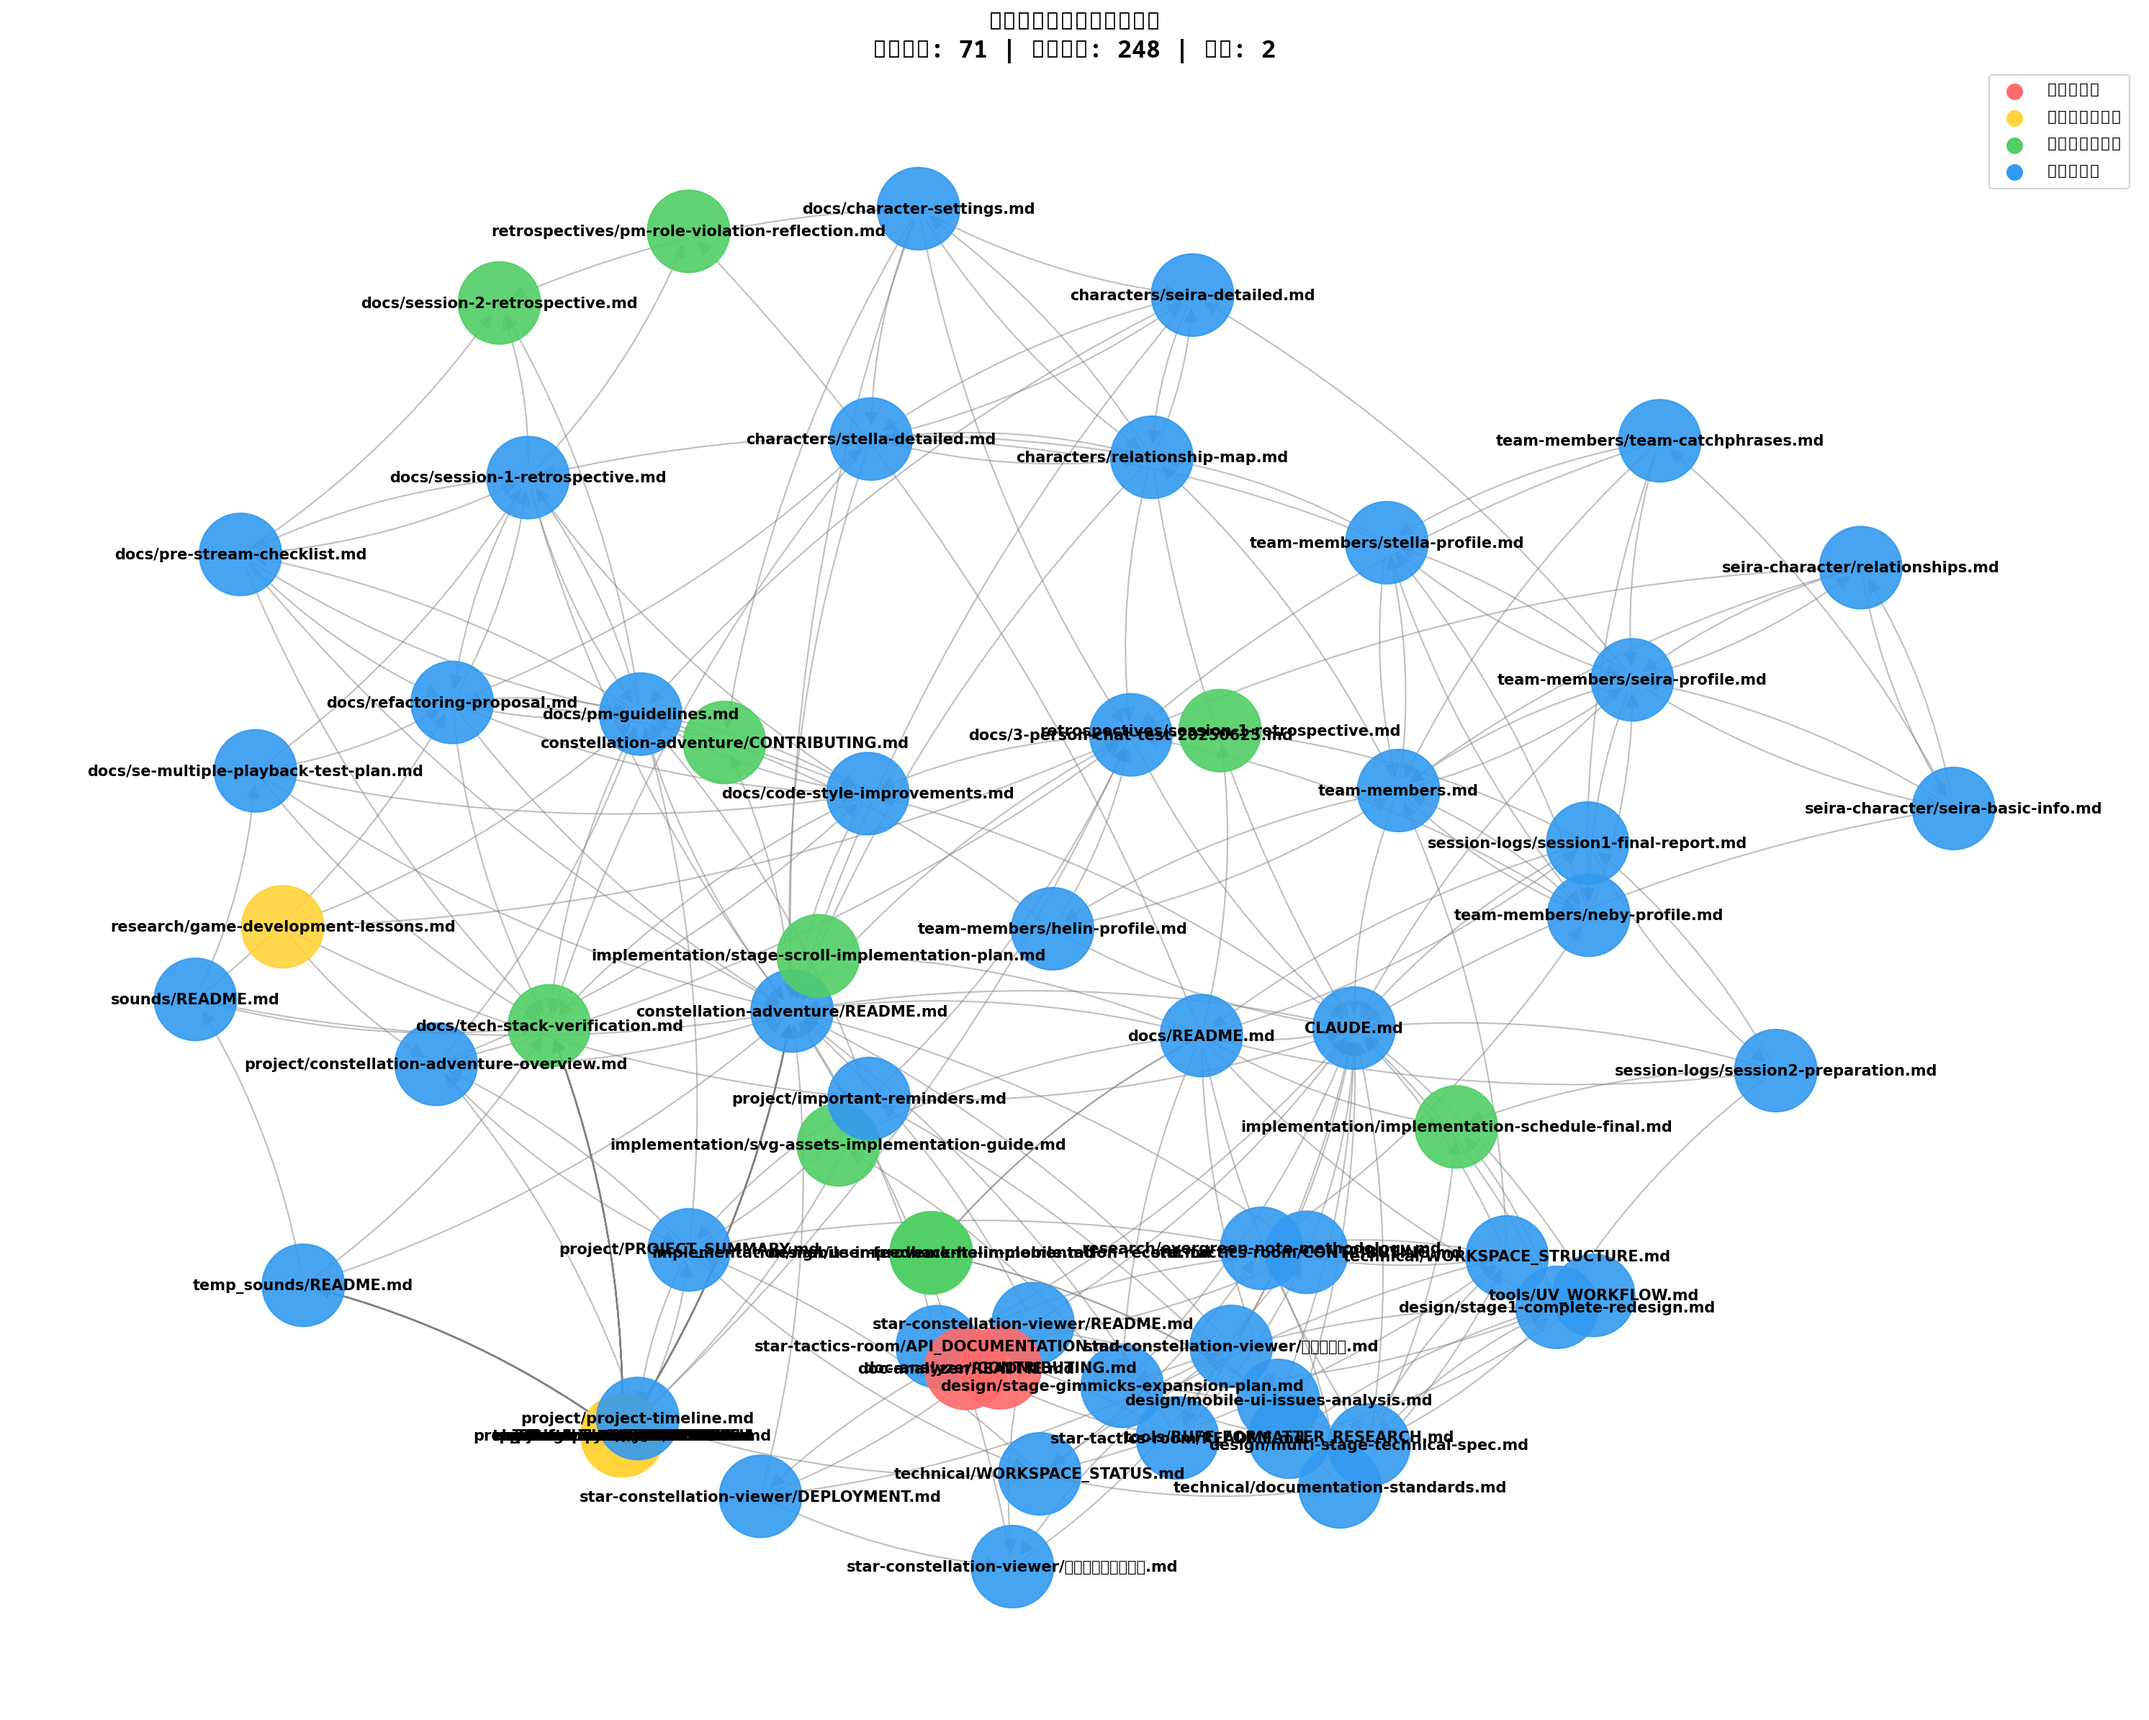
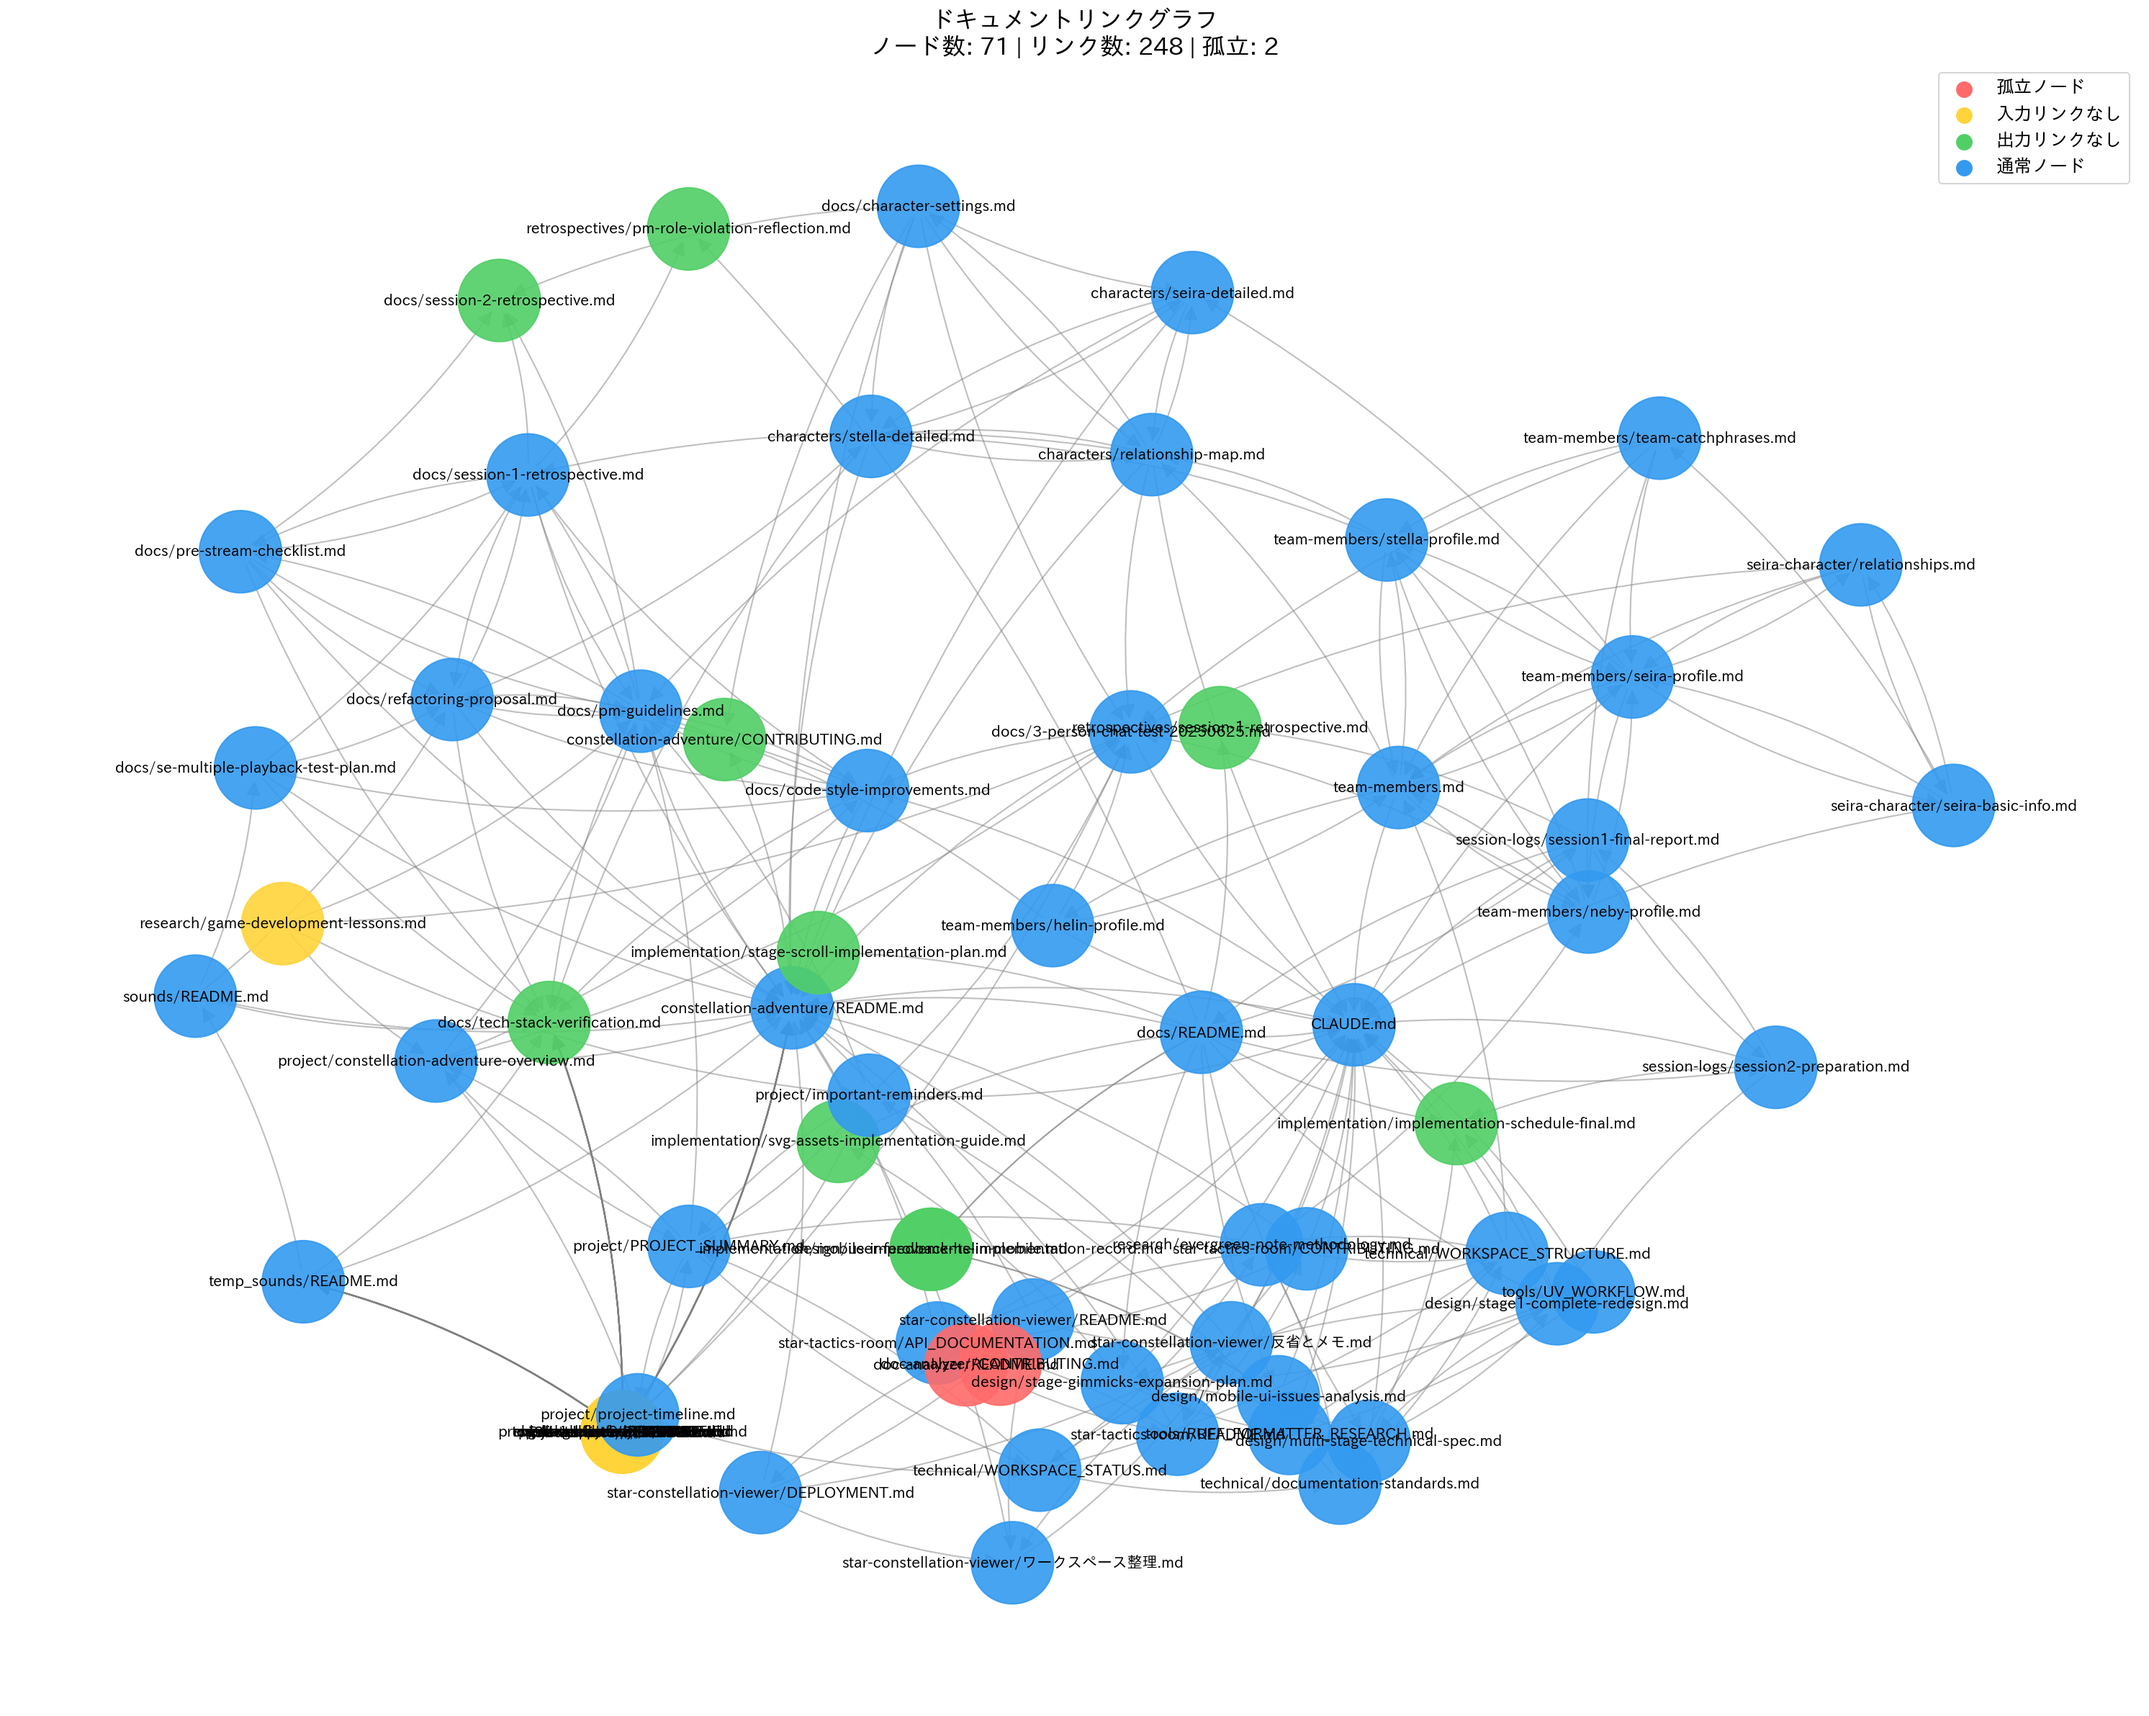
Fix: 日本語フォント表示問題を修正
- プラットフォーム別に適切な日本語フォントを検索
- Linux: IPAexGothic, Noto Sans CJK JP等
- macOS: Hiragino Sans, Yu Gothic等
- Windows: Yu Gothic, Meiryo等
- フォントが見つからない場合の適切なフォールバック処理
- printでデバッグ情報を出力（使用フォント名）

diff --git a/graph_visualizer.py b/graph_visualizer.py
@@ -19,15 +19,78 @@ class GraphVisualizer:
         """
         self.analyzer = analyzer
         # 日本語フォントの設定
-        try:
-            # 日本語フォントを探す
-            fonts = [f for f in fm.findSystemFonts() if 'noto' in f.lower() or 'takao' in f.lower()]
-            if fonts:
-                plt.rcParams['font.family'] = fm.FontProperties(fname=fonts[0]).get_name()
-            else:
-                plt.rcParams['font.family'] = 'DejaVu Sans'
-        except:
-            plt.rcParams['font.family'] = 'DejaVu Sans'
+        self._setup_japanese_font()
+    
+    def _setup_japanese_font(self):
+        """日本語フォントを設定"""
+        import platform
+        system = platform.system()
+        
+        # 優先順位の高い日本語フォントリスト
+        font_candidates = []
+        
+        if system == 'Linux':
+            font_candidates = [
+                'Noto Sans CJK JP',
+                'Noto Sans JP',
+                'IPAexGothic',
+                'IPAPGothic', 
+                'TakaoGothic',
+                'VL Gothic',
+                'Droid Sans Japanese',
+                'Ubuntu'
+            ]
+        elif system == 'Darwin':  # macOS
+            font_candidates = [
+                'Hiragino Sans',
+                'Hiragino Kaku Gothic Pro',
+                'Yu Gothic',
+                'Osaka',
+                'Meiryo'
+            ]
+        elif system == 'Windows':
+            font_candidates = [
+                'Yu Gothic',
+                'Meiryo',
+                'MS Gothic',
+                'MS PGothic'
+            ]
+        
+        # システムフォントから候補を探す
+        found_font = None
+        available_fonts = set([f.name for f in fm.fontManager.ttflist])
+        
+        for font_name in font_candidates:
+            if font_name in available_fonts:
+                found_font = font_name
+                break
+        
+        # フォントパスから直接探す（fallback）
+        if not found_font:
+            font_paths = fm.findSystemFonts()
+            for font_path in font_paths:
+                font_lower = font_path.lower()
+                if any(keyword in font_lower for keyword in ['noto', 'ipa', 'takao', 'gothic', 'sans']):
+                    try:
+                        prop = fm.FontProperties(fname=font_path)
+                        found_font = prop.get_name()
+                        break
+                    except:
+                        continue
+        
+        # フォントを設定
+        if found_font:
+            plt.rcParams['font.family'] = found_font
+            plt.rcParams['font.sans-serif'] = [found_font]
+            print(f"Using Japanese font: {found_font}")
+        else:
+            # フォールバック（英語フォント）
+            plt.rcParams['font.family'] = 'sans-serif'
+            plt.rcParams['font.sans-serif'] = ['DejaVu Sans', 'Arial', 'Helvetica']
+            print("Warning: Japanese font not found, using default font")
+        
+        # マイナス記号の表示設定
+        plt.rcParams['axes.unicode_minus'] = False
     
     def create_graph(self) -> nx.DiGraph:
         """有向グラフを作成"""
